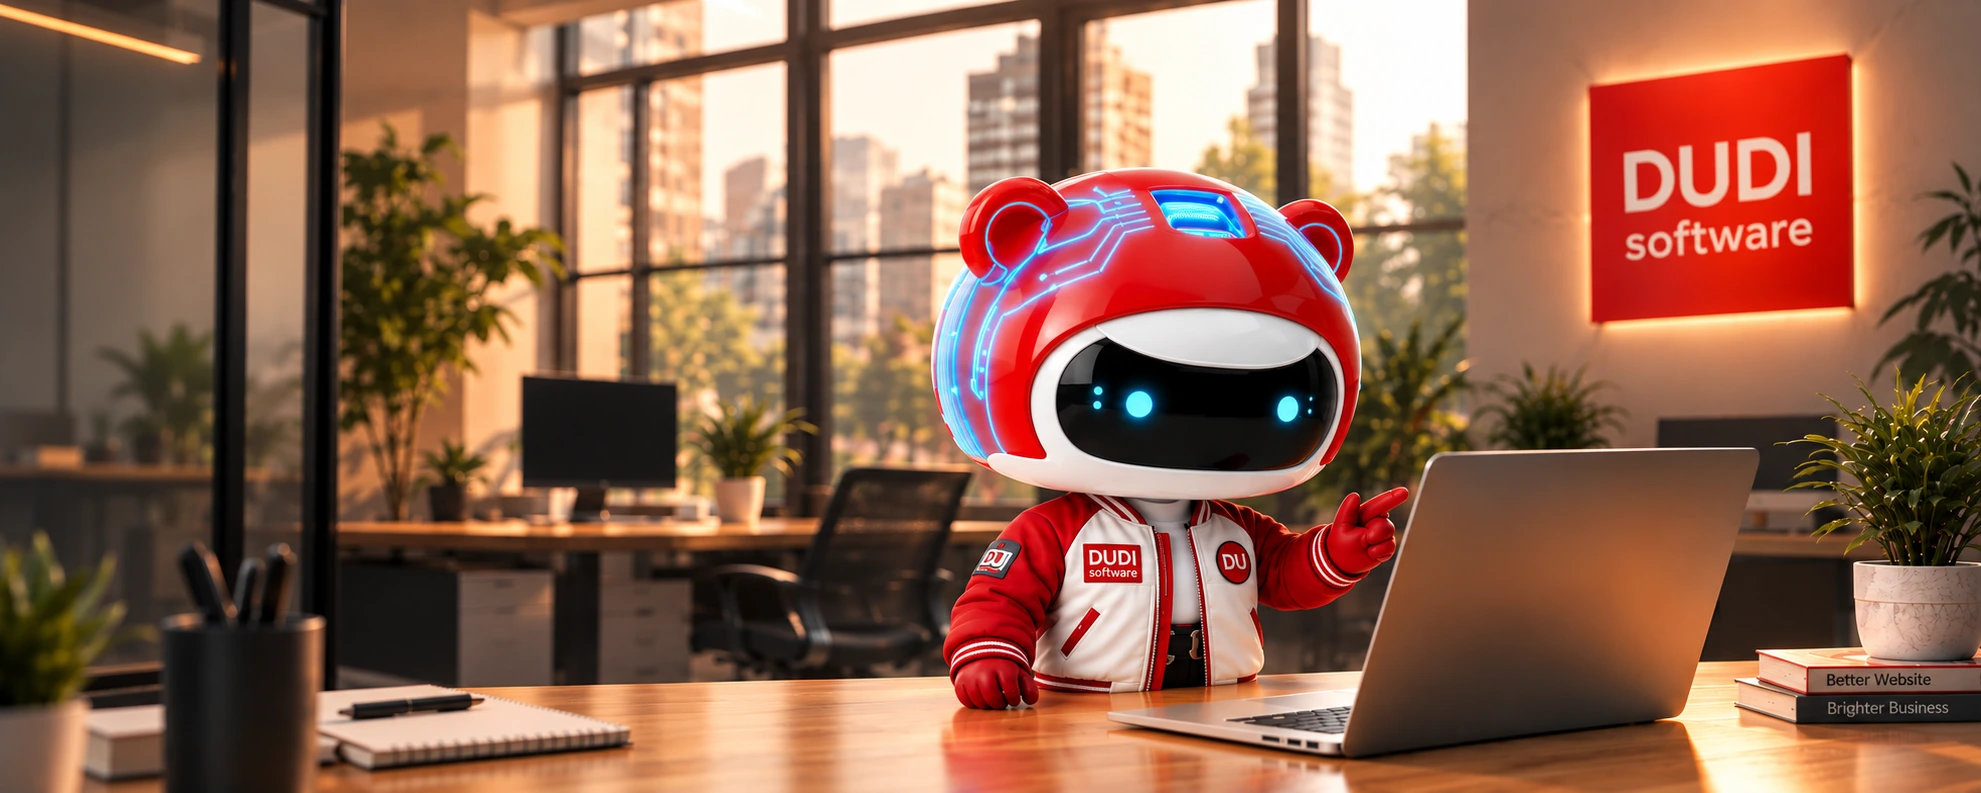
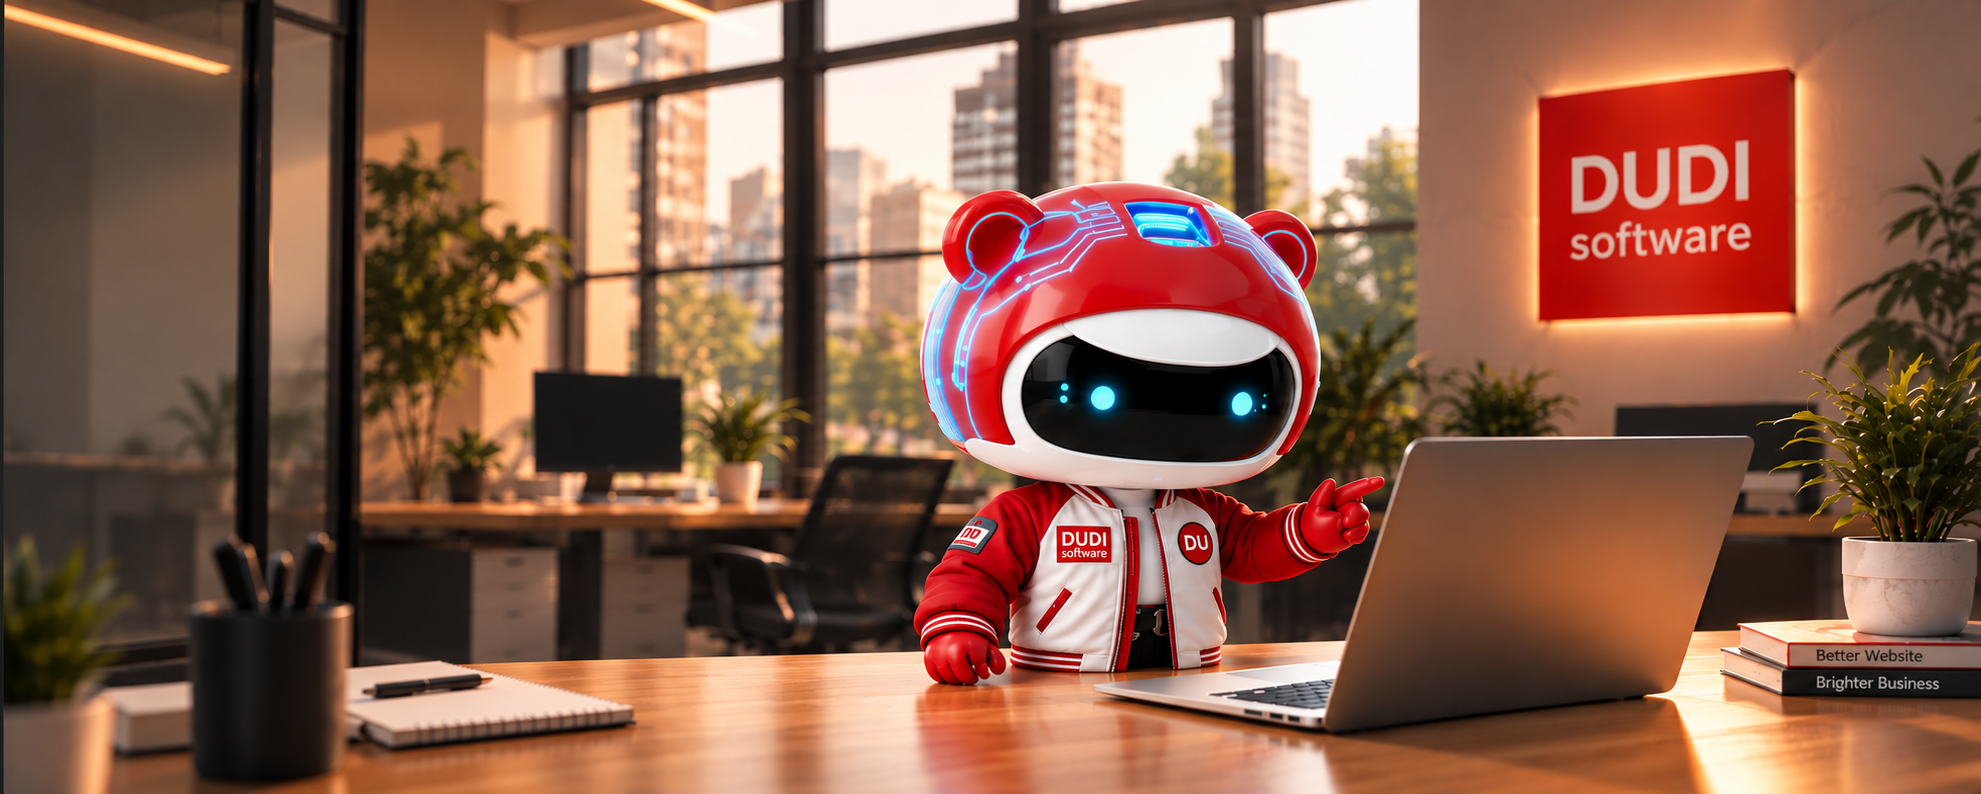
feat: add Hero section component and hero image asset

diff --git a/src/components/sections/Hero.js b/src/components/sections/Hero.js
@@ -1,7 +1,7 @@
 "use client";
 
 import Image from "next/image";
-import { ArrowRight, Zap, ShieldCheck, Users, Award, Heart, Briefcase, ChevronUp } from "lucide-react";
+import { ArrowRight, Zap, ShieldCheck, Users, ChevronUp } from "lucide-react";
 import { ScrollReveal } from "@/components/common/ScrollReveal";
 import { scrollToSection } from "@/lib/utils";
 import { trackEvent } from "@/lib/tracking";
@@ -22,12 +22,6 @@ const TRUST_BADGES = [
     title: "Minh bạch chi phí",
     subtitle: "báo giá trước khi làm",
   },
-];
-
-const STATS = [
-  { icon: Award, value: "200+", label: "Dự án hoàn thành" },
-  { icon: Heart, value: "98%", label: "Khách hài lòng" },
-  { icon: Briefcase, value: "3+", label: "Năm kinh nghiệm" },
 ];
 
 export function Hero() {
@@ -51,9 +45,9 @@ export function Hero() {
   return (
     <section
       id="hero"
-      className="scroll-mt-16 sm:scroll-mt-20 lg:scroll-mt-24 relative isolate w-full overflow-hidden bg-[#FFF9F5]"
+      className="scroll-mt-16 sm:scroll-mt-20 lg:scroll-mt-24 relative isolate w-full overflow-hidden bg-[#FFF9F5] lg:h-[100svh] lg:min-h-[660px] lg:max-h-[940px] flex flex-col justify-center"
     >
-      {/* ===== DESKTOP ONLY: ảnh nền full-bleed + phủ mờ trái ===== */}
+      {/* ===== DESKTOP ONLY: nền full-bleed, robot nằm gọn nửa phải ===== */}
       <div className="hidden lg:block absolute inset-0 z-0 select-none pointer-events-none" aria-hidden="true">
         <Image
           src="/dudi/DUDI_herosection.webp"
@@ -62,25 +56,20 @@ export function Hero() {
           priority
           unoptimized
           sizes="100vw"
-          className="object-cover object-[96%_center] xl:object-[98%_center] select-none pointer-events-none"
+          className="object-cover object-[70%_38%] xl:object-[72%_38%] select-none pointer-events-none"
         />
       </div>
-      {/* Lớp backdrop-blur cục bộ bên trái (desktop) */}
+      {/* Lớp phủ cream nhẹ bên trái để chữ đọc rõ mà nền vẫn thoáng, tan dần sang phải */}
       <div
-        className="hidden lg:block absolute inset-y-0 left-0 w-full lg:w-[46%] xl:w-[44%] z-[1] pointer-events-none select-none [mask-image:linear-gradient(to_right,black_30%,transparent_100%)] backdrop-blur-[5px]"
-        aria-hidden="true"
-      />
-      {/* Lớp gradient phủ ấm (desktop) */}
-      <div
-        className="hidden lg:block absolute inset-0 z-[1] bg-gradient-to-r from-[#FFF9F5]/93 via-[#FFF9F5]/70 via-[26%] via-[#FFF9F5]/20 via-[38%] to-transparent to-[46%] pointer-events-none select-none"
+        className="hidden lg:block absolute inset-0 z-[1] bg-gradient-to-r from-[#FFF9F5]/90 via-[#FFF9F5]/70 via-[25%] via-[#FFF9F5]/35 via-[42%] to-transparent to-[60%] pointer-events-none select-none"
         aria-hidden="true"
       />
 
       {/* ===== CONTENT ===== */}
-      <div className="relative z-10 mx-auto w-full max-w-7xl px-4 sm:px-6 lg:px-8">
-        <div className="grid grid-cols-1 lg:grid-cols-12 lg:items-center lg:min-h-[100svh] lg:max-h-[1020px]">
+      <div className="relative z-10 mx-auto w-full max-w-7xl px-4 sm:px-6 lg:px-8 lg:h-full lg:flex lg:flex-col lg:justify-center">
+        <div className="grid grid-cols-1 lg:grid-cols-12 lg:items-center lg:h-full">
           {/* Cột chữ */}
-          <div className="lg:col-span-7 xl:col-span-6 w-full max-w-none sm:max-w-lg lg:max-w-[460px] xl:max-w-[490px] flex flex-col items-stretch sm:items-start text-left pt-[84px] sm:pt-[96px] pb-6 sm:pb-8 lg:py-24 lg:transform lg:-translate-x-5 xl:-translate-x-7">
+          <div className="lg:col-span-7 xl:col-span-6 w-full max-w-none sm:max-w-lg lg:max-w-[460px] xl:max-w-[490px] flex flex-col items-stretch sm:items-start justify-center text-left pt-[84px] sm:pt-[96px] pb-6 sm:pb-8 lg:py-14 xl:py-16 lg:transform lg:-translate-x-5 xl:-translate-x-7">
             {/* Eyebrow */}
             <ScrollReveal variant="fade-up" delay={50} duration={800}>
               <span className="text-[#FF6500] font-black text-[11px] sm:text-[13px] tracking-[0.22em] uppercase mb-3 sm:mb-4 inline-block">
@@ -90,7 +79,7 @@ export function Hero() {
 
             {/* H1: bỏ whitespace-nowrap trên mobile để không tràn 320px */}
             <ScrollReveal variant="fade-up" delay={120} duration={800}>
-              <h1 className="text-balance text-[27px] min-[400px]:text-[29px] sm:text-[32px] md:text-[34px] lg:text-[34px] xl:text-[38px] font-black text-slate-900 leading-[1.2] sm:leading-[1.22] tracking-tight mb-3.5 sm:mb-4 lg:mb-5">
+              <h1 className="text-balance text-[27px] min-[400px]:text-[29px] sm:text-[32px] md:text-[34px] lg:text-[34px] xl:text-[38px] font-black text-slate-900 leading-[1.2] sm:leading-[1.22] tracking-tight mb-3.5 sm:mb-4 lg:mb-4">
                 <span className="block">Cập nhật &amp; Nâng cấp</span>
                 <span className="block text-transparent bg-clip-text bg-gradient-to-r from-[#FF2B14] via-[#FF6800] to-[#FFA000] lg:whitespace-nowrap">
                   Website Doanh Nghiệp
@@ -103,14 +92,14 @@ export function Hero() {
 
             {/* Mô tả: mobile căn trái cho dễ đọc, sm+ justify */}
             <ScrollReveal variant="fade-up" delay={200} duration={800}>
-              <p className="text-[13.5px] sm:text-[14.5px] lg:text-[15px] text-slate-700 font-medium leading-[1.7] text-left sm:text-justify mb-5 sm:mb-7 lg:mb-8 max-w-none sm:max-w-[390px] lg:max-w-[400px]">
+              <p className="text-[13.5px] sm:text-[14.5px] lg:text-[14.5px] xl:text-[15px] text-slate-700 font-medium leading-[1.7] text-left sm:text-justify mb-5 sm:mb-7 lg:mb-6 max-w-none sm:max-w-[390px] lg:max-w-[400px]">
                 DUDI Software tối ưu đúng phần website chậm, lỗi thời hoặc khó ra khách: tăng tốc tải trang, chuẩn hóa di động và sửa lỗi triệt để — giữ chân khách hàng hiệu quả, không cần làm lại từ đầu.
               </p>
             </ScrollReveal>
 
             {/* CTA: mobile full-width xếp dọc như mẫu, sm+ xếp ngang */}
             <ScrollReveal variant="fade-up" delay={280} duration={800} className="w-full sm:w-auto">
-              <div className="flex flex-col min-[420px]:flex-row min-[420px]:flex-wrap min-[420px]:items-center gap-2.5 sm:gap-3.5 mb-6 sm:mb-8 lg:mb-9 w-full sm:w-auto">
+              <div className="flex flex-col min-[420px]:flex-row min-[420px]:flex-wrap min-[420px]:items-center gap-2.5 sm:gap-3.5 mb-7 sm:mb-8 lg:mb-8 w-full sm:w-auto">
                 <a
                   href="#form-tu-van"
                   onClick={handlePrimaryCta}
@@ -129,7 +118,7 @@ export function Hero() {
               </div>
             </ScrollReveal>
 
-            {/* Trust badges: mobile card 1 cột / 3 cột nhỏ, không đè lên ảnh nữa */}
+            {/* Trust badges: hàng cuối của cụm nội dung */}
             <ScrollReveal variant="fade-up" delay={360} duration={800} className="w-full">
               <div className="w-full">
                 <div className="grid grid-cols-1 min-[420px]:grid-cols-3 gap-2 sm:flex sm:flex-wrap sm:items-center sm:gap-x-4 lg:gap-x-4.5 sm:gap-y-2.5">
@@ -158,24 +147,6 @@ export function Hero() {
               </div>
             </ScrollReveal>
 
-            {/* Stats như mẫu: 200+ / 98% / 3+ */}
-            <ScrollReveal variant="fade-up" delay={440} duration={800} className="w-full">
-              <dl className="mt-6 sm:mt-7 grid grid-cols-3 divide-x divide-orange-100 rounded-2xl bg-white/70 border border-orange-100/70 backdrop-blur-sm px-2 py-4 sm:bg-transparent sm:border-0 sm:backdrop-blur-none sm:px-0 sm:py-0 sm:mt-7">
-                {STATS.map((s) => (
-                  <div key={s.label} className="flex flex-col items-center text-center px-1 min-w-0">
-                    <span className="inline-flex h-8 w-8 sm:h-9 sm:w-9 items-center justify-center rounded-full bg-amber-100/80 text-[#FF6B00] mb-1.5">
-                      <s.icon className="h-4 w-4" strokeWidth={2.2} />
-                    </span>
-                    <dt className="order-2 text-[10px] sm:text-[11px] text-slate-500 font-medium leading-tight mt-1">
-                      {s.label}
-                    </dt>
-                    <dd className="order-1 text-lg sm:text-xl font-black text-slate-900 tabular-nums leading-none">
-                      {s.value}
-                    </dd>
-                  </div>
-                ))}
-              </dl>
-            </ScrollReveal>
           </div>
 
           {/* Cột phải desktop để trống cho linh vật */}
